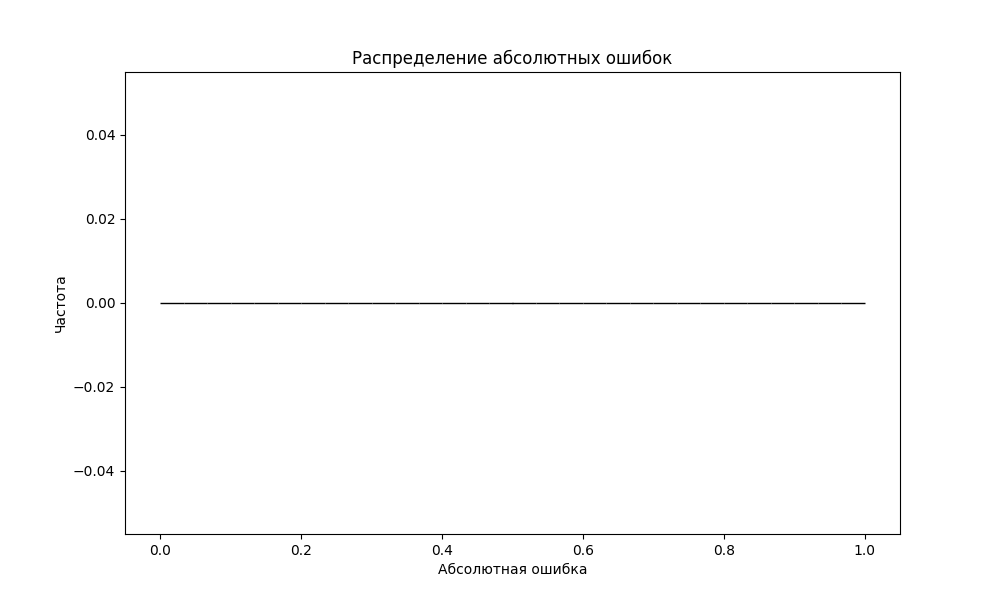
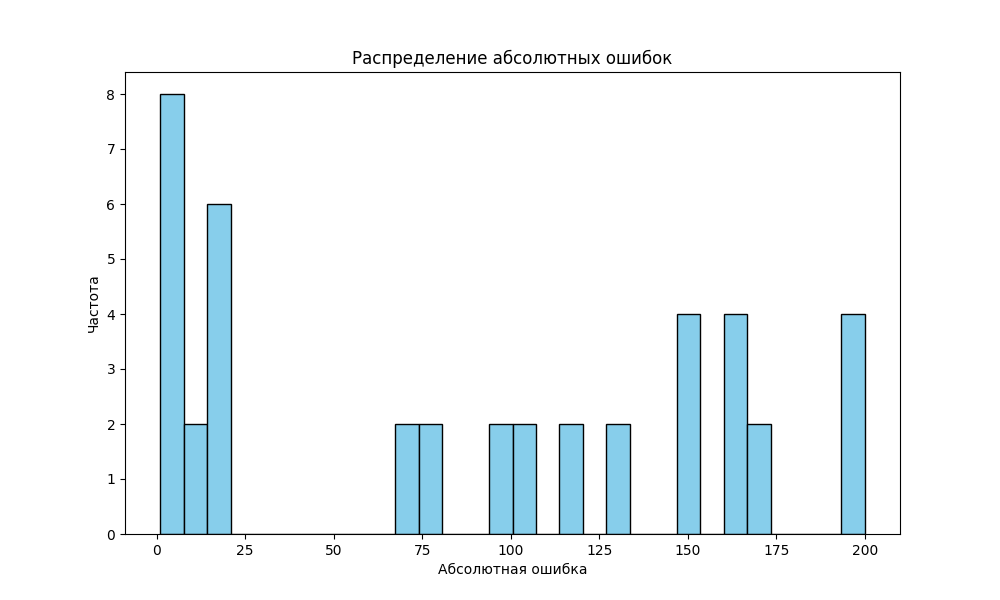
v.3.0

diff --git a/metric/metric.py b/metric/metric.py
@@ -3,6 +3,49 @@ import json
 import time
 import logging
 import pandas as pd
+import numpy as np
+import os
+import pandas as pd
+import json
+import time
+import logging
+
+# Настройка логирования
+logging.basicConfig(level=logging.DEBUG, format='%(asctime)s - %(levelname)s - %(message)s')
+
+metric_log_path = './logs/metric_log.csv'
+
+# Проверка существования файла и его создание, если нужно
+if not os.path.exists(metric_log_path):
+    logging.debug(f"Файл {metric_log_path} не существует, создаём новый.")
+
+# Функция для записи в CSV
+def write_to_csv(message_id, y_true_value, y_pred_value, absolute_error):
+    try:
+        # Записываем данные в DataFrame
+        df = pd.DataFrame({
+            'id': [message_id],
+            'y_true': [y_true_value],
+            'y_pred': [y_pred_value],
+            'absolute_error': [absolute_error]
+        })
+
+        # Логирование данных перед записью
+        logging.debug(f"Записываем в CSV: {df}")
+
+        # Проверка, если файл уже существует
+        file_exists = os.path.exists(metric_log_path)
+
+        # Записываем данные
+        df.to_csv(metric_log_path, mode='a', header=not file_exists, index=False)
+        logging.debug(f"Данные для id {message_id} записаны в {metric_log_path}")
+
+    except Exception as e:
+        logging.error(f"Ошибка при записи в CSV: {e}")
+
+# Пример вызова функции
+# write_to_csv('example_id', 100.0, 95.0, 5.0)
+
 
 # Настройка логирования
 logging.basicConfig(level=logging.DEBUG, format='%(asctime)s - %(levelname)s - %(message)s')
@@ -14,8 +57,19 @@ y_pred_dict = {}
 # Путь к файлу лога
 metric_log_path = './logs/metric_log.csv'
 
+# Функция для чтения первых 5 строк из CSV
+def read_first_5_lines():
+    try:
+        df = pd.read_csv(metric_log_path)
+        logging.debug("metric: Первые 5 строк из metric_log.csv:")
+        logging.debug(df.head())  # Вывод первых 5 строк
+    except Exception as e:
+        logging.error(f"Ошибка при чтении metric_log.csv: {e}")
+
 # Функция callback для обработки сообщений
 def callback(ch, method, properties, body):
+    logging.debug(f"Callback function вызвана. Получено сообщение с body: {body}")
+    logging.debug(f'Из очереди {method.routing_key} получено значение {json.loads(body)}')
     try:
         message = json.loads(body)
         logging.debug(f"Получено сообщение: {message}")
@@ -24,6 +78,8 @@ def callback(ch, method, properties, body):
         logging.debug(f"method: {method}")
         logging.debug(f"properties: {properties}")
         logging.debug(f"Сообщение в raw формате: {body}")
+        # Выводим первые 5 строк
+        read_first_5_lines()
 
         message_id = message['id']
         if method.routing_key == 'y_true':
@@ -33,12 +89,28 @@ def callback(ch, method, properties, body):
             y_pred_dict[message_id] = message['body']
             logging.debug(f"Сохранено значение y_pred для id {message_id}")
 
+        logging.debug(f"y_true_dict[message_id] {y_true_dict[message_id]}")
+        logging.debug(f"y_pred_dict {y_pred_dict}")
+
+        y_pred_value = np.random.randint(100, 301)
+        y_pred_dict[message_id] = y_pred_value
+        abs_err = abs(y_true_dict[message_id] - y_pred_dict[message_id])
+        logging.debug(f"abs(y_true_value - y_pred_value) {abs_err}")
+        write_to_csv(message_id, y_true_dict[message_id], y_pred_value, abs_err)
+
         # Если есть и y_true, и y_pred для одного id, считаем абсолютную ошибку
         if message_id in y_true_dict and message_id in y_pred_dict:
             y_true_value = y_true_dict[message_id]
             y_pred_value = y_pred_dict[message_id]
             absolute_error = abs(y_true_value - y_pred_value)
             logging.debug(f"Абсолютная ошибка для id {message_id}: {absolute_error}")
+
+            # Проверка существования файла и его создание, если нужно
+            if not os.path.exists(metric_log_path):
+                logging.debug(f"Файл {metric_log_path} не существует, создаём новый.")
+
+            # Проверка, если файл уже существует
+            file_exists = os.path.exists(metric_log_path)
 
             # Записываем в CSV
             df = pd.DataFrame({
@@ -47,6 +119,8 @@ def callback(ch, method, properties, body):
                 'y_pred': [y_pred_value],
                 'absolute_error': [absolute_error]
             })
+
+            logging.debug(f"Записываем в CSV: {df.head()}")
 
             df.to_csv(metric_log_path, mode='a', header=not pd.io.common.file_exists(metric_log_path), index=False)
             logging.debug(f"Данные для id {message_id} записаны в metric_log.csv")
@@ -62,9 +136,15 @@ while True:
         channel = connection.channel()
 
         # Объявляем очереди
-        channel.queue_declare(queue='y_true', durable=True)
-        channel.queue_declare(queue='y_pred', durable=True)
+        y_true_result = channel.queue_declare(queue='y_true', durable=True)
+        y_pred_result = channel.queue_declare(queue='y_pred', durable=True)
         logging.debug("Очереди y_true и y_pred объявлены")
+        logging.debug(f"Объявляем очереди y_true_result: {y_true_result}")
+        logging.debug(f"Объявляем очереди y_pred_result: {y_pred_result}")
+        # Логирование состояния очередей
+        logging.debug(f"Очередь y_true объявлена: consumer_count={y_true_result.method.consumer_count}, message_count={y_true_result.method.message_count}")
+        logging.debug(f"Очередь y_pred объявлена: consumer_count={y_pred_result.method.consumer_count}, message_count={y_pred_result.method.message_count}")
+
 
         # Извлекаем сообщения из очередей
         channel.basic_consume(queue='y_true', on_message_callback=callback, auto_ack=True)

diff --git a/features/features.py b/features/features.py
@@ -11,13 +11,18 @@ logging.basicConfig(level=logging.DEBUG, format='%(asctime)s - %(levelname)s - %
 
 # Создаём бесконечный цикл для отправки сообщений в очередь
 while True:
+    logging.debug(f"Создаём бесконечный цикл для отправки сообщений в очередь")
     try:
         logging.debug("Загружаем датасет о диабете")
         # Загружаем датасет о диабете
         X, y = load_diabetes(return_X_y=True)
+        logging.debug(f"Загружаем датасет X {X}")
+        logging.debug(f"Загружаем датасет y {y}")
 
         # Формируем случайный индекс строки
         random_row = np.random.randint(0, X.shape[0]-1)
+        logging.debug(f"Формируем случайный индекс строки random_row {random_row}")
+        logging.debug(f"Формируем случайный индекс строки y random_row {y[random_row]}")
 
         # Генерируем уникальный идентификатор для сообщения
         message_id = datetime.timestamp(datetime.now())

diff --git a/plot/plot.py b/plot/plot.py
@@ -13,7 +13,7 @@ metric_log_path = './logs/metric_log.csv'
 def read_first_5_lines():
     try:
         df = pd.read_csv(metric_log_path)
-        logging.debug("Первые 5 строк из metric_log.csv:")
+        logging.debug("PLOT: Первые 5 строк из metric_log.csv:")
         logging.debug(df.head())  # Вывод первых 5 строк
     except Exception as e:
         logging.error(f"Ошибка при чтении metric_log.csv: {e}")

diff --git a/README.md b/README.md
@@ -7,6 +7,25 @@
     pip install -r requirements.txt
     python features.py
 
+```
++-------------------+          +-------------------+         +-------------------+
+|                   |          |                   |         |                   |
+|   features.py     +--------->|    metric.py      +-------->|     plot.py       |
+|                   |  AMQP    |                   |  AMQP   |                   |
+|   (Отправка данных)|          |  (Логирование и  |         | (Построение графиков|
+|                   |          |   вычисление      |         |    из данных)     |
++-------------------+          +-------------------+         +-------------------+
+|                            |                              |
+|                            |                              |
+v                            v                              v
++------------------+    +--------------------+   +-----------------------+
+|                  |    |                    |   |                       |
+|   RabbitMQ       +---->+  metric_log.csv     +-->| logs/error_distribution|
+|   (Обмен        |    |  (Логирование метрик)|   |       .png             |
+|   сообщениями)  |    +--------------------+   +-----------------------+
++------------------+
+```
+
 ## Шаг 1: Реализация отправки данных с уникальными идентификаторами в очереди RabbitMQ
 
 Сначала мы добавим задержку в цикл, генерируем уникальные идентификаторы с использованием datetime.timestamp(), и отправим эти сообщения в очереди RabbitMQ.
@@ -51,6 +70,6 @@ Dockerfile для сервисов
 
     docker-compose up
 
-Теперь ваши сервисы должны работать в режиме реального времени и генерировать графики, которые будут обновляться с каждой итерацией.
+Теперь сервисы должны работать в режиме реального времени и генерировать графики, которые будут обновляться с каждой итерацией.
 
 
